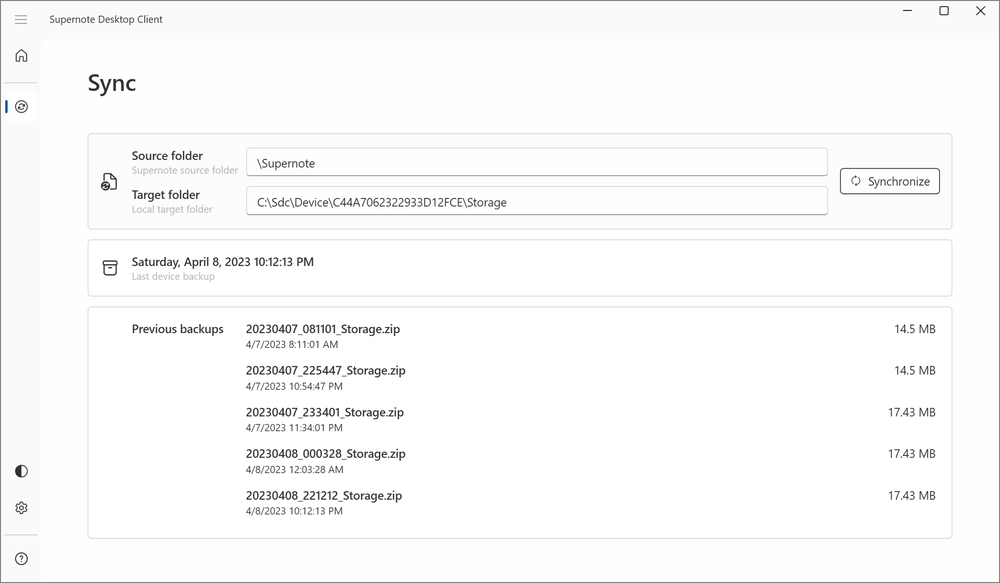
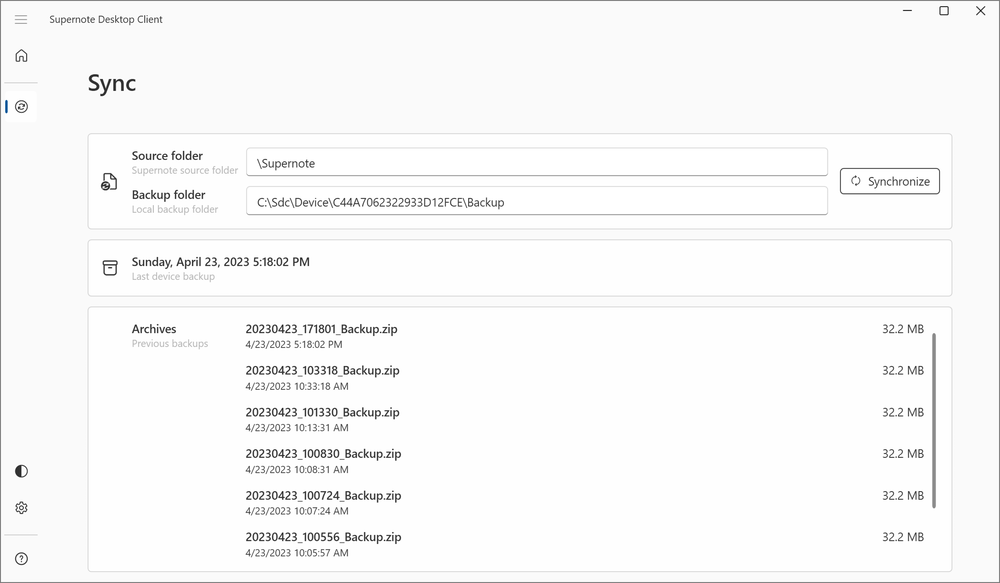
Updated for release v0.2.8513

diff --git a/README.md b/README.md
@@ -1,18 +1,25 @@
 # Supernote Desktop Client
+![GitHub relase](https://img.shields.io/github/v/release/nelinory/SupernoteDesktopClient)
+![GitHub dowloads](https://img.shields.io/github/downloads/nelinory/SupernoteDesktopClient/total)
+![GitHub issues](https://img.shields.io/github/issues/nelinory/SupernoteDesktopClient)
+![Github license](https://img.shields.io/github/license/nelinory/SupernoteDesktopClient)
+
 Supernote Desktop Client (SDC) is a desktop client for Supernote paper-like tablet by Ratta (https://supernote.com).
 
 > SDC is a windows application build with .NET 6
 
-### Prototype - Features
-- [X] Automatically detects Supernote device
-- [X] Shows basic information for connected Supernote device
-- [X] Manual Supernote storage synchronization to local folder
-- [X] Build in backup support for up to 5 automatic backups
-- [X] Supports multiple Supernote devices, each device will have unique local sync folder
+### Key Features
+- Automatically detects Supernote device connected with an USB cable
+- Shows basic information for connected Supernote device
+- Automatic/Manual Supernote storage synchronization to local folder
+- Automatically archives last synchronization
+- Supports multiple Supernote devices, each device will have unique local sync folder
+- Light/Dark Theme support 
 
 ### Download
 Get the latest portable version from [Releases page](https://github.com/nelinory/SupernoteDesktopClient/releases/latest).
-Extract the zip file to a desired location. Execute `SupernoteDesktopClient.exe` from inside sdc folder. 
+Extract the zip file to a desired location.  
+Run `SupernoteDesktopClient.exe` from inside sdc folder. 
 
 ### Problems with Microsoft .NET when running the application
 
@@ -22,19 +29,21 @@ If you do not have .NET 6 installed:
 3. Download x64 Windows installer
 4. Run the installer
 
-After following these steps, you can open Terminal and type: `dotnet --info`. In the output look for section `.NET runtimes installed`, in this section you should see something like:
-
-`Microsoft.NETCore.App 6.x.x [C:\Program Files\dotnet\shared\Microsoft.NETCore.App]`
-
-and
-
+After following these steps, you can open Terminal and type: `dotnet --info`. In the output look for section `.NET runtimes installed`, in this section you should see something like:  
+`Microsoft.NETCore.App 6.x.x [C:\Program Files\dotnet\shared\Microsoft.NETCore.App]`  
+and  
 `Microsoft.WindowsDesktop.App 6.x.x [C:\Program Files\dotnet\shared\Microsoft.WindowsDesktop.App]`  
-
 as long as both versions say 6.x.x you are good to go.
 
 ### Roadmap
 For release milestones, please check the project board: https://github.com/users/nelinory/projects/1
-  
+
+### How to build
+
+- Visual Studio 2022
+- .NET 6.0 Runtime
+- .NET 6.0 SDK
+
 ### Screenshots
 ##### Dashboard
 <img src="_Screenshots\sdc_dashboard.png" alt="dashboard" width="900"/>
